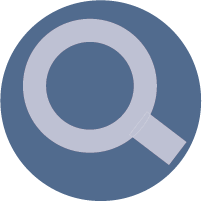
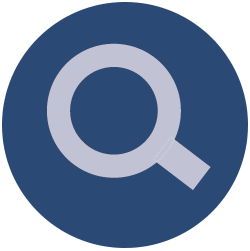
Header

diff --git a/css/style.css b/css/style.css
@@ -2,100 +2,137 @@
    v2.0 | 20110126
    License: none (public domain)
 */
-html, body, div, span, applet, object, iframe,
-h1, h2, h3, h4, h5, h6, p, blockquote, pre,
-a, abbr, acronym, address, big, cite, code,
-del, dfn, em, img, ins, kbd, q, s, samp,
-small, strike, strong, sub, sup, tt, var,
-b, u, i, center,
-dl, dt, dd, ol, ul, li,
-fieldset, form, label, legend,
-table, caption, tbody, tfoot, thead, tr, th, td,
-article, aside, canvas, details, embed,
-figure, figcaption, footer, header, hgroup,
-menu, nav, output, ruby, section, summary,
-time, mark, audio, video {
+
+html, body, div, span, applet, object, iframe, h1, h2, h3, h4, h5, h6, p, blockquote, pre, a, abbr, acronym, address, big, cite, code, del, dfn, em, img, ins, kbd, q, s, samp, small, strike, strong, sub, sup, tt, var, b, u, i, center, dl, dt, dd, ol, ul, li, fieldset, form, label, legend, table, caption, tbody, tfoot, thead, tr, th, td, article, aside, canvas, details, embed, figure, figcaption, footer, header, hgroup, menu, nav, output, ruby, section, summary, time, mark, audio, video {
   margin: 0;
   padding: 0;
   border: 0;
-  font-size: 100%;
   font: inherit;
-  vertical-align: baseline; }
+  vertical-align: baseline;
+}
+
 
 /* HTML5 display-role reset for older browsers */
-article, aside, details, figcaption, figure,
-footer, header, hgroup, menu, nav, section {
-  display: block; }
+
+article, aside, details, figcaption, figure, footer, header, hgroup, menu, nav, section {
+  display: block;
+}
 
 body {
-  line-height: 1; }
+  line-height: 1;
+}
 
 ol, ul {
-  list-style: none; }
+  list-style: none;
+}
 
 blockquote, q {
-  quotes: none; }
+  quotes: none;
+}
 
-blockquote:before, blockquote:after,
-q:before, q:after {
+blockquote:before, blockquote:after, q:before, q:after {
   content: '';
-  content: none; }
+  content: none;
+}
+
 
 /*-----------------CSS start------------------*/
+
 nav ul {
-  display: inline; }
+  display: inline;
+}
+
 nav li {
-  text-decoration: none; }
+  text-decoration: none;
+}
 
 #upper-header {
+  padding-top: 0.5%;
+  padding-bottom: 0.5%;
   background-color: #11497b;
   display: grid;
   grid-template-columns: 1fr 1fr 1fr 1fr 1fr 1fr 1fr 1fr;
-  grid-template-rows: 1fr 1fr 2fr; }
-  #upper-header #logo {
-    grid-column-start: 1;
-    grid-column-end: 3;
-    grid-row-start: 3; }
-  #upper-header #lang {
-    grid-column-start: 6;
-    grid-column-end: 7;
-    color: white; }
-  #upper-header ul {
-    opacity: 0.8;
-    grid-column-start: 7;
-    grid-column-end: 9; }
-    #upper-header ul li {
-      text-decoration: none;
-      list-style-type: none;
-      width: 45%;
-      float: left; }
-      #upper-header ul li img {
-        width: 15%;
-        float: left; }
-    #upper-header ul p {
-      margin-top: -0.6%;
-      width: 55%;
-      margin-left: 2%;
-      color: white;
-      opacity: 0.8;
-      float: left; }
-  #upper-header input {
-    grid-column-start: 6;
-    grid-column-end: 9;
-    grid-row-start: 3;
-    height: 70%;
-    width: 50%;
-    padding-left: 3%;
-    margin: auto;
-    border: none;
-    color: rgba(255, 255, 255, 0.5);
-    background-color: #0068b4; }
-  #upper-header #search-icon {
-    width: 12%;
-    margin: auto auto auto 10%;
-    height: 40%;
-    grid-column-start: 8;
-    grid-column-end: 9;
-    grid-row-start: 3; }
+  grid-template-rows: 1fr 1fr 2fr;
+}
 
-/*# sourceMappingURL=style.css.map */
+#upper-header #logo {
+  margin-left: 18%;
+  grid-column-start: 1;
+  grid-column-end: 4;
+  grid-row-start: 3;
+}
+
+#upper-header #lang {
+  grid-column-start: 6;
+  grid-column-end: 7;
+  color: white;
+  opacity: 0.6;
+  font-size: 14px;
+  margin-left: 20%;
+}
+
+#upper-header ul {
+  grid-column-start: 7;
+  grid-column-end: 9;
+}
+
+#upper-header ul li {
+  text-decoration: none;
+  list-style-type: none;
+  width: 50%;
+  float: left;
+  margin-left:0%;
+}
+#first {
+  margin-right: -15%;
+}
+
+#upper-header ul li img {
+  width: 12%;
+  float: left;
+}
+
+#upper-header ul p {
+  margin-top:2%;
+  width: 55%;
+  margin-left: 10%;
+  color: white;
+  opacity: 0.6;
+  float: left;
+  font-size: 14px;
+}
+
+#upper-header input {
+  grid-column-start: 6;
+  grid-column-end: 9;
+  grid-row-start: 3;
+  height: 70%;
+  width: 50%;
+  padding-left: 3%;
+  margin: auto;
+  border: none;
+  color: rgba(255, 255, 255, 0.5);
+  background-color: #34648f;
+}
+
+#upper-header #search-icon {
+  width: 13%;
+  margin: auto auto auto 10%;
+  height: 50%;
+  grid-column-start: 8;
+  grid-column-end: 9;
+  grid-row-start: 3;
+}
+
+nav ul li a {
+  text-decoration: none;
+  list-style-type: none;
+  float: left;
+  margin-left: 2%;
+  color: black;
+}
+  nav {
+    padding: 1% 5% 2%;
+    border-bottom: 2px rgba(0,0,0,0.2) solid;
+    background-color:rgba(0,0,0,0.1) ;
+  }

diff --git a/Header.php b/Header.php
@@ -4,7 +4,7 @@
     <p id="lang">United Kingdom</p>
 
 <ul>
-  <li><img src="images/icon1.png" alt="icon" id="grid"><p>Services</p></li>
+  <li id="first"><img src="images/icon1.png" alt="icon" id="grid"><p>Services</p></li>
   <li><img src="images/user.png" alt="icon" id="user"><p>Sign in</p></li>
 </ul>
 
@@ -33,12 +33,6 @@
   									</li>
   								<li class="">
   										<a href="/how-to-buy.html" title="How to buy">How to buy</a>
-  									</li>
-  								<li class=" hidden-sm hidden-md hidden-lg">
-  										Grundfos Energy check
-  									</li>
-  								<li class=" hidden-sm hidden-md hidden-lg">
-  										<a href="/grundfos-for-installers.html" title="Grundfos for Installers">Grundfos for Installers</a>
   									</li>
   								</ul>
 </nav>

diff --git a/header.php b/header.php
@@ -4,7 +4,7 @@
     <p id="lang">United Kingdom</p>
 
 <ul>
-  <li><img src="images/icon1.png" alt="icon" id="grid"><p>Services</p></li>
+  <li id="first"><img src="images/icon1.png" alt="icon" id="grid"><p>Services</p></li>
   <li><img src="images/user.png" alt="icon" id="user"><p>Sign in</p></li>
 </ul>
 
@@ -33,12 +33,6 @@
   									</li>
   								<li class="">
   										<a href="/how-to-buy.html" title="How to buy">How to buy</a>
-  									</li>
-  								<li class=" hidden-sm hidden-md hidden-lg">
-  										Grundfos Energy check
-  									</li>
-  								<li class=" hidden-sm hidden-md hidden-lg">
-  										<a href="/grundfos-for-installers.html" title="Grundfos for Installers">Grundfos for Installers</a>
   									</li>
   								</ul>
 </nav>

diff --git a/table.php b/table.php
@@ -1,0 +1,3 @@
+<section id="table-search">
+  <img src="images"
+</section>
